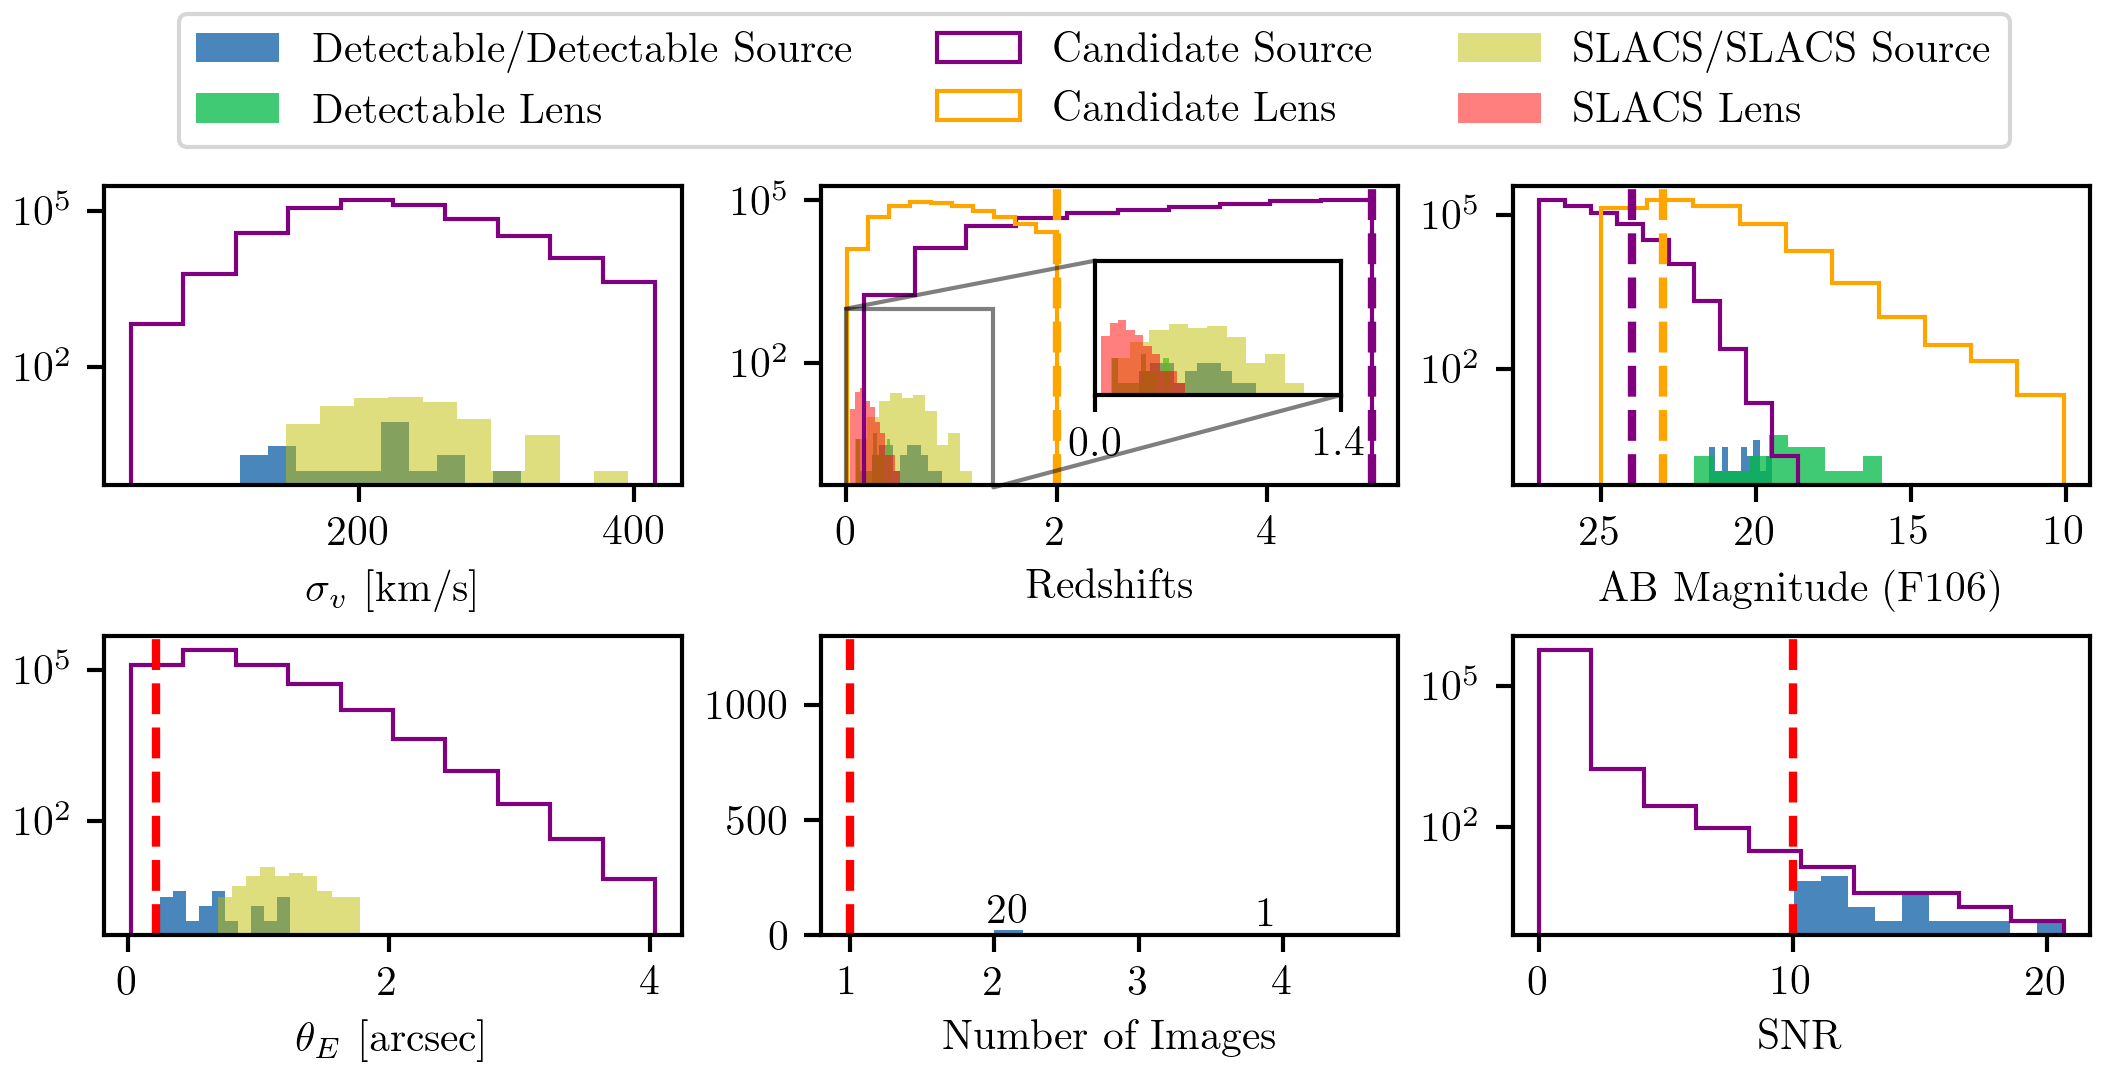
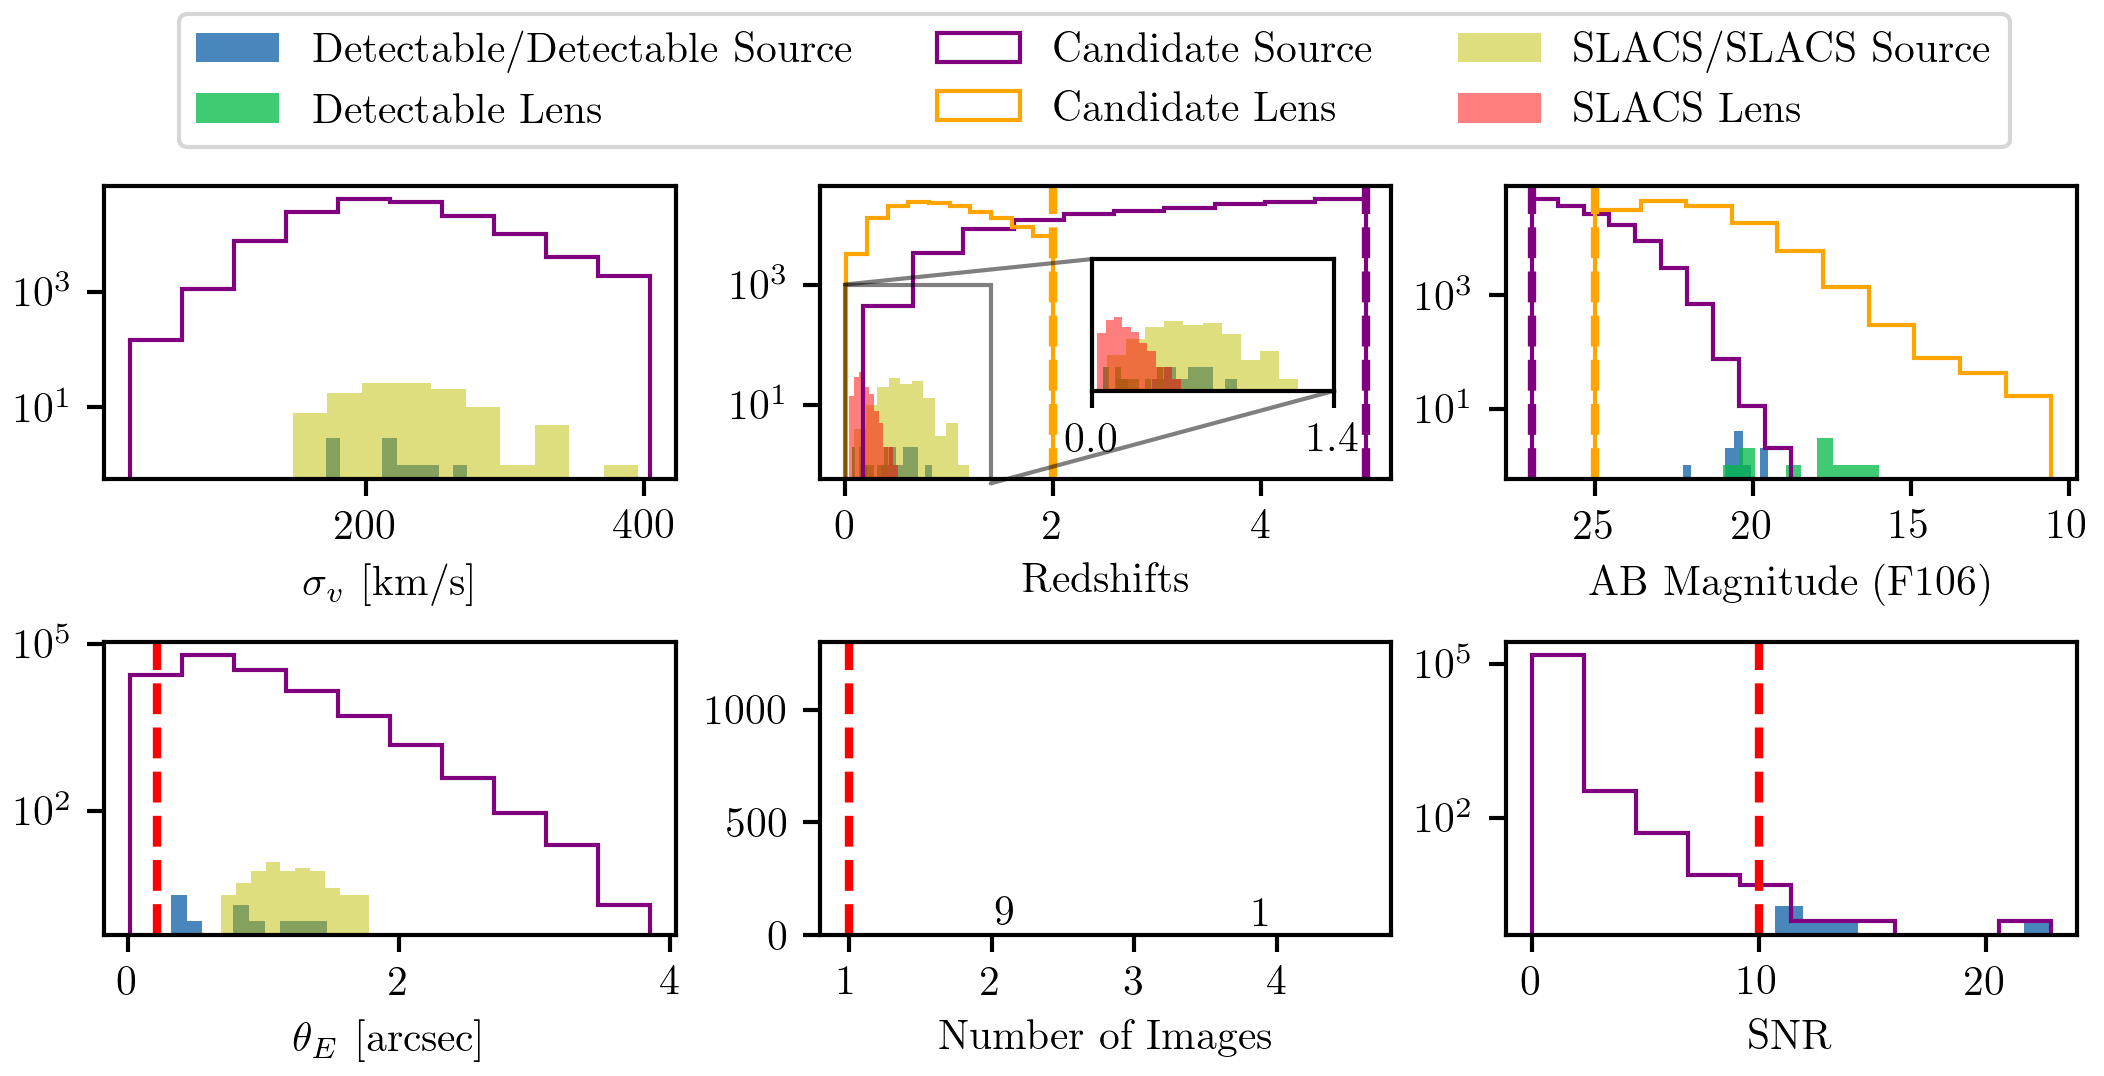
pipeline improvements

diff --git a/scripts/pipeline/00_hlwas_sim.py b/scripts/pipeline/00_hlwas_sim.py
@@ -20,7 +20,7 @@ def main(config):
     start = time.time()
 
     # set number of runs
-    runs = 10
+    runs = 4
 
     # debugging mode will print statements to console
     debugging = True
@@ -45,7 +45,8 @@ def main(config):
     if debugging: print('Configured Roman filters')
 
     # tuple the parameters
-    tuple_list = [(run, output_dir, debugging) for run in range(runs)]
+    pipeline_params = util.hydra_to_dict(config.pipeline)
+    tuple_list = [(run, pipeline_params, output_dir, debugging) for run in range(runs)]
 
     # split up the lenses into batches based on core count
     cpu_count = multiprocessing.cpu_count()
@@ -78,7 +79,7 @@ def run_slsim(tuple):
     from mejiro.utils import util
 
     # unpack tuple
-    run, output_dir, debugging = tuple
+    run, pipeline_params, output_dir, debugging = tuple
 
     # load SkyPy config file
     module_path = os.path.dirname(mejiro.__file__)
@@ -94,7 +95,7 @@ def run_slsim(tuple):
     survey_area = float(config['fsky'][:-5])
     sky_area = Quantity(value=survey_area, unit='deg2')
     cosmo = default_cosmology.get()
-    bands_hlwas = ['F106', 'F129', 'F184']  # 'F158', TODO change before final execution
+    bands = pipeline_params['bands']
 
     # define cuts on the intrinsic deflector and source populations (in addition to the skypy config file)
     kwargs_deflector_cut = {'band': 'F106', 'band_max': 25, 'z_min': 0.01, 'z_max': 2.}
@@ -120,7 +121,7 @@ def run_slsim(tuple):
     # draw the total lens population
     if debugging: print('Identifying lenses...')
     kwargs_lens_total_cut = {
-        'min_image_separation': 0.01,
+        'min_image_separation': 0,
         'max_image_separation': 10,
         'mag_arc_limit': None
     }
@@ -138,7 +139,7 @@ def run_slsim(tuple):
     # save other params to CSV
     total_pop_csv = os.path.join(output_dir, f'total_pop_{str(run).zfill(2)}.csv')
     if debugging: print(f'Writing total population to {total_pop_csv}')
-    survey_sim.write_lens_pop_to_csv(total_pop_csv, total_lens_population, bands_hlwas)
+    survey_sim.write_lens_pop_to_csv(total_pop_csv, total_lens_population, bands)
 
     # draw initial detectable lens population
     if debugging: print('Identifying detectable lenses...')
@@ -208,7 +209,7 @@ def run_slsim(tuple):
 
         # build dicts for lens and source magnitudes
         lens_mags, source_mags = {}, {}
-        for band in bands_hlwas:  # add F158
+        for band in bands:  # add F158
             lens_mags[band] = gglens.deflector_magnitude(band)
             source_mags[band] = gglens.extended_source_magnitude(band)
 
@@ -241,7 +242,7 @@ def run_slsim(tuple):
         util.pickle(save_path, each)
 
     detectable_pop_csv = os.path.join(output_dir, f'detectable_pop_{str(run).zfill(2)}.csv')
-    survey_sim.write_lens_pop_to_csv(detectable_pop_csv, detectable_gglenses, bands_hlwas)
+    survey_sim.write_lens_pop_to_csv(detectable_pop_csv, detectable_gglenses, bands)
 
 
 if __name__ == '__main__':

diff --git a/scripts/pipeline/05_color.py b/scripts/pipeline/05_color.py
@@ -35,7 +35,10 @@ def main(config):
     # limit = 9
     lens_pickles = glob(config.machine.dir_02 + '/lens_with_subhalos_*')
     count = len(lens_pickles)
-    input_list = [(int(os.path.basename(i).split('_')[3].split('.')[0]), input_dir, output_dir) for i in lens_pickles]
+    pipeline_params = util.hydra_to_dict(config.pipeline)
+    rgb_bands = pipeline_params['rgb_bands']
+    assert len(rgb_bands) == 3, 'rgb_bands must be a list of 3 bands'
+    input_list = [(int(os.path.basename(i).split('_')[3].split('.')[0]), pipeline_params, input_dir, output_dir) for i in lens_pickles]
 
     # split up the lenses into batches based on core count
     cpu_count = multiprocessing.cpu_count()
@@ -66,15 +69,17 @@ def get_image(input):
     start = time.time()
 
     # unpack tuple
-    (uid, input_dir, output_dir) = input
+    (uid, pipeline_params, input_dir, output_dir) = input
+    rgb_bands = pipeline_params['rgb_bands']
 
-    f106 = np.load(input_dir + f'/galsim_{str(uid).zfill(8)}_F106.npy')
-    f129 = np.load(input_dir + f'/galsim_{str(uid).zfill(8)}_F129.npy')
-    f184 = np.load(input_dir + f'/galsim_{str(uid).zfill(8)}_F184.npy')
+    # assign bands to colors
+    red = np.load(input_dir + f'/galsim_{str(uid).zfill(8)}_{rgb_bands[0]}.npy')
+    green = np.load(input_dir + f'/galsim_{str(uid).zfill(8)}_{rgb_bands[1]}.npy')
+    blue = np.load(input_dir + f'/galsim_{str(uid).zfill(8)}_{rgb_bands[2]}.npy')
 
     # generate and save color image
     from mejiro.helpers import color
-    rgb_image = color.get_rgb(image_b=f106, image_g=f129, image_r=f184, stretch=4, Q=5)
+    rgb_image = color.get_rgb(image_b=blue, image_g=green, image_r=red, stretch=4, Q=5)
     np.save(os.path.join(output_dir, f'galsim_color_{str(uid).zfill(8)}.npy'), rgb_image)
 
     stop = time.time()

diff --git a/scripts/pipeline/04_galsim.py b/scripts/pipeline/04_galsim.py
@@ -39,9 +39,6 @@ def main(config):
     count = len(lens_pickles)
     uid_list = [int(os.path.basename(i).split('_')[3].split('.')[0]) for i in lens_pickles]
 
-    # get bands
-    bands = util.hydra_to_dict(config.pipeline)['band']
-
     # split up the lenses into batches based on core count
     cpu_count = multiprocessing.cpu_count()
     process_count = cpu_count - config.machine.headroom_cores
@@ -53,7 +50,7 @@ def main(config):
     pipeline_params = util.hydra_to_dict(config.pipeline)
     tuple_list = []
     for uid in uid_list:
-        tuple_list.append((uid, pipeline_params, input_dir, output_dir, bands))
+        tuple_list.append((uid, pipeline_params, input_dir, output_dir))
 
     # batch
     generator = util.batch_list(tuple_list, process_count)
@@ -77,9 +74,10 @@ def get_image(input):
     from mejiro.utils import util
 
     # unpack tuple
-    (uid, pipeline_params, input_dir, output_dir, bands) = input
+    (uid, pipeline_params, input_dir, output_dir) = input
 
     # unpack pipeline_params
+    bands = pipeline_params['bands']
     grid_oversample = pipeline_params['grid_oversample']
     exposure_time = pipeline_params['exposure_time']
     suppress_output = pipeline_params['suppress_output']

diff --git a/scripts/pipeline/03_build_models.py b/scripts/pipeline/03_build_models.py
@@ -42,14 +42,11 @@ def main(config):
         process_count = count
     print(f'Spinning up {process_count} process(es) on {cpu_count} core(s)')
 
-    # get bands
-    bands = util.hydra_to_dict(config.pipeline)['band']
-
     # tuple the parameters
     pipeline_params = util.hydra_to_dict(config.pipeline)
     tuple_list = []
     for i in lens_uids:
-        tuple_list.append((i, pipeline_params, bands, input_dir, output_dir))
+        tuple_list.append((i, pipeline_params, input_dir, output_dir))
 
     # batch
     generator = util.batch_list(tuple_list, process_count)
@@ -68,9 +65,10 @@ def get_model(input):
     from mejiro.utils import util
 
     # unpack tuple
-    (i, pipeline_params, bands, input_dir, output_dir) = input
+    (i, pipeline_params, input_dir, output_dir) = input
 
     # unpack pipeline params
+    bands = pipeline_params['bands']
     num_pix = pipeline_params['num_pix']
     side = pipeline_params['side']
     grid_oversample = pipeline_params['grid_oversample']
